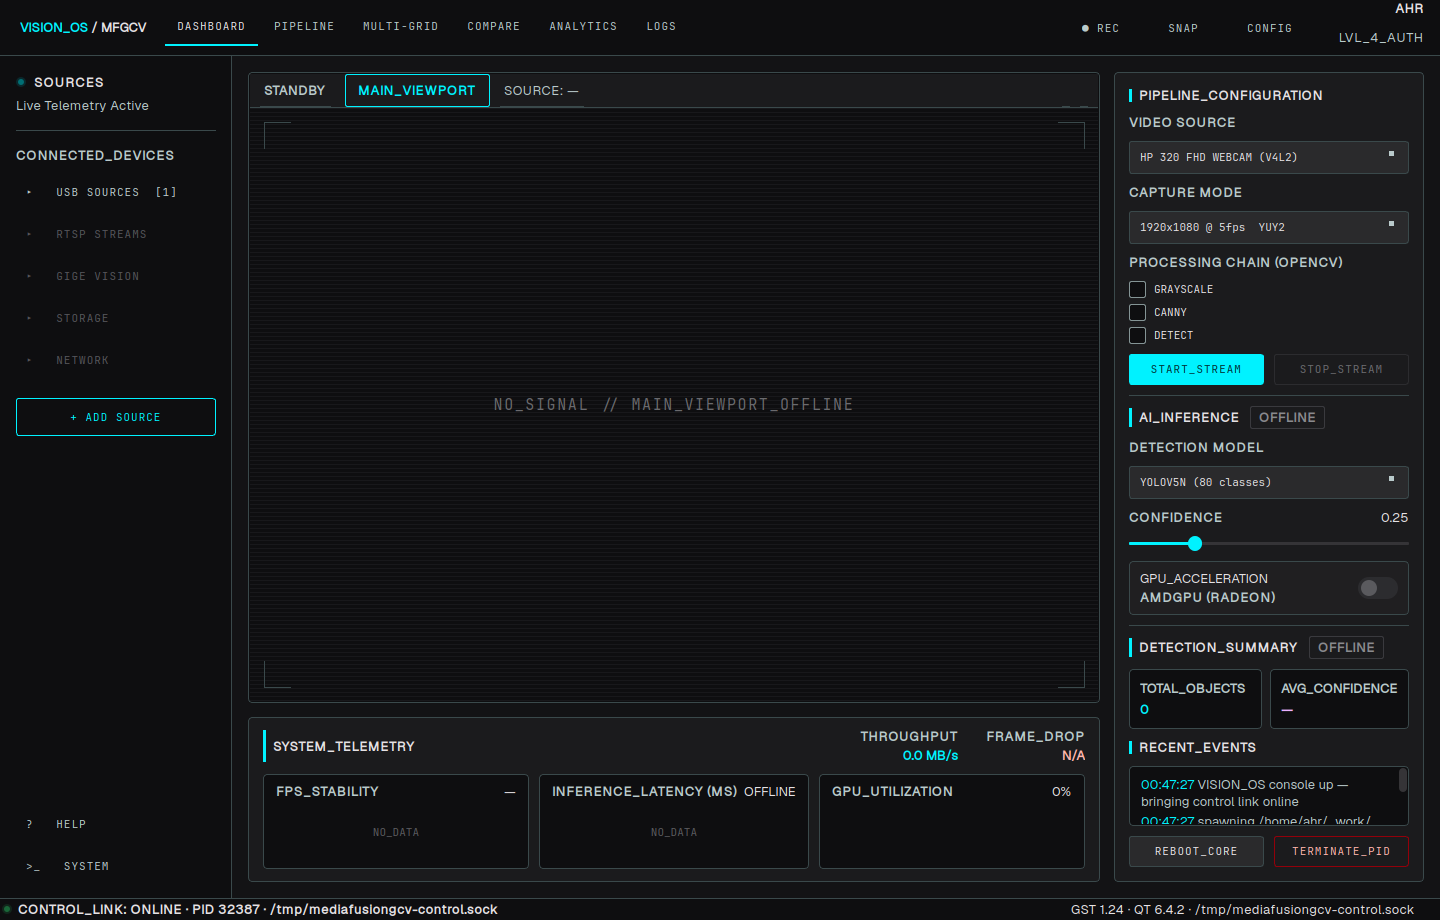
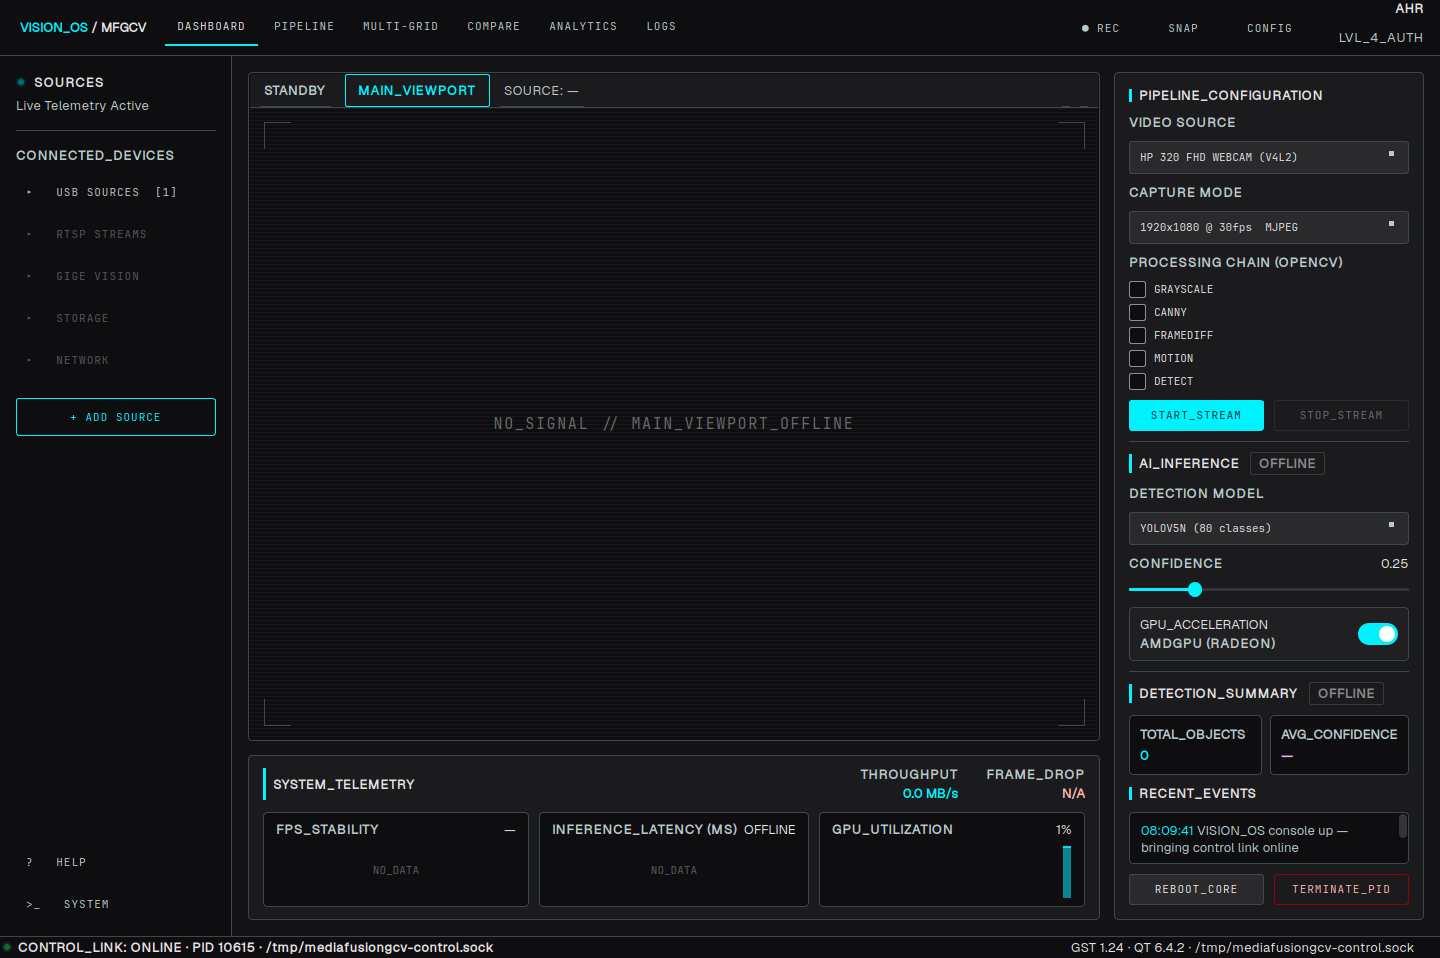
docs: record the motion stage and the measured cost of the processing stages

diff --git a/README.md b/README.md
@@ -55,9 +55,9 @@ interrupts operations; errors surface as log entries and tile badges.
 | Area | What works |
 |---|---|
 | **Streaming** | Camera → viewport, end-to-end: `create → set-device → algos → start`, frames over a per-stream zero-copy unixfd socket into an embedded GL viewport |
-| **Processing chain** | Runtime-selectable OpenCV algorithms (`grayscale`, `canny`, `framediff`, `detect`) applied in place via a pad probe — toggled live from the console |
+| **Processing chain** | Runtime-selectable OpenCV algorithms (`grayscale`, `canny`, `framediff`, `motion`, `detect`) applied in place via a pad probe — toggled live from the console |
 | **Algorithm parameters** | Each stage describes its own knobs (`algo-params`); the console generates sliders/toggles from that schema and retunes a running stream with `algo-set` |
-| **Motion detection** | `framediff` — temporal difference against a running average of the scene, with sensitivity, background decay and overlay/mask/heat rendering |
+| **Motion detection** | `framediff` — temporal difference against a running average of the scene, with sensitivity, background decay and overlay/mask/heat rendering. `motion` — MOG2 or KNN background subtraction, which learns the scene and so holds still through foliage, flicker and lighting drift that a running average reports as movement; tunable history, foreground threshold, shadow suppression and learning rate, rendered as overlay, mask, or the learned background itself. The analysis runs on a 360-row copy and the mask is scaled back up, which keeps it at ≈4.4 ms/frame at 1080p against ≈10.7 ms for the same subtractor at full resolution |
 | **AI inference** | YOLO-family ONNX object detection (`detect`) through OpenCV DNN: model picker and confidence slider in the console, boxes drawn into the frame, model swappable mid-stream. Inference runs on a worker thread and the probe overlays the newest result, so detection cost never throttles the stream |
 | **Inference telemetry** | Real per-pipeline detector stats over the control protocol (`stats <id>`) — latency chart, TOTAL_OBJECTS / AVG_CONFIDENCE tiles, and detections in the event log |
 | **Acceleration** | Backends auto-detected at daemon start (CPU / Vulkan / CUDA) and reported over the protocol (`accelerators`); the console renders a capability-driven selector — only detected engines are offered, `AUTO` by default, CPU when no GPU. A per-deploy CPU/GPU choice threads through the pipeline (`accel <id> <sel>`) and always resolves to a runnable backend. **The YOLO detector runs on the GPU via ncnn + Vulkan** behind an `IInferenceBackend` seam — validated on a Radeon RX 6700-series (RADV): **≈24 ms/frame vs ≈57 ms on CPU** for yolov5n at 640² (~2.4×). Enabled by `scripts/build-ncnn.sh` (`-DWITH_GPU`); the weights are converted FP16→FP32→pnnx by `scripts/fetch-models.sh` (plain `onnx2ncnn` yields a graph that crashes ncnn's Vulkan path). Colourspace convert stays on the CPU (≈1 ms). CUDA is a compiled placeholder for a future NVIDIA card |
@@ -154,7 +154,7 @@ interactively: run the engine without arguments for a REPL, or
 | `create <src> <snk> <name>` | `OK id=N` | Allocate a pipeline (e.g. `create camera app cam0`) |
 | `devices <id>` | device & caps listing | Enumerate V4L2 devices with all capture modes |
 | `set-device <id> <dev> <cap>` | `OK` | Bind a device + capture mode to the source |
-| `algos-list` | `OK grayscale,canny,framediff,detect` | Available processing algorithms |
+| `algos-list` | `OK grayscale,canny,framediff,motion,detect` | Available processing algorithms |
 | `algos <id> <csv>` | `OK` | Set the processing chain (empty CSV disables; an unknown name is rejected) |
 | `algo-params <algo>` | parameter schema | Describe an algorithm's knobs, enough to build a control from |
 | `algo-set <id> <algo> <k=v,…>` | `OK` | Tune an algorithm (e.g. `algo-set 0 canny low=90`); values are clamped |
@@ -298,9 +298,12 @@ docs/
    GPU colour-convert segment is disabled — `glupload!glcolorconvert!gldownload`
    delivered all-black frames on this RADV/GL stack, so convert stays on the CPU;
    (b) fill in the CUDA placeholder when an NVIDIA card lands.
-3. **RTSP source** — first non-V4L2 protocol chip.
-4. **Recording** — REC / REC ALL to disk with the DVR transport bar.
-5. **Frame-integrity accounting** — drop counters and aggregate score on Analytics.
+3. **Motion & surveillance stages** — `framediff` and `motion` have landed; next are
+   motion regions with bounding boxes and telemetry, intrusion zones, and tracking
+   with persistent IDs and dwell time.
+4. **RTSP source** — first non-V4L2 protocol chip.
+5. **Recording** — REC / REC ALL to disk with the DVR transport bar.
+6. **Frame-integrity accounting** — drop counters and aggregate score on Analytics.
 
 ## License
 

diff --git a/docs/PERFORMANCE.md b/docs/PERFORMANCE.md
@@ -71,13 +71,48 @@ camera delivers**:
 | `framediff` | 15.06 | 0 |
 | `canny` | 15.07 | 0 |
 
-Read that as a budget statement, not as "these stages are free": the camera was
-delivering 15 fps that afternoon (auto-exposure again — the same mode measured
-20.1 fps for the baseline above, in better light), so each frame had ~66 ms of
-slack and a stage costing a few ms cannot show up. The number that would move
-first is `dropped:`, and it did not. To measure a stage's actual cost, a
-synthetic source is needed — the camera cannot be driven fast enough to expose
-it.
+Re-measured 2026-08-07 in better light, where the same mode delivered 24 fps —
+`motion` is free at that rate too:
+
+| Chain | fps | dropped |
+|---|---|---|
+| (none) | 24.03 | 0 |
+| `framediff` | 24.03 | 0 |
+| `motion` | 24.02 | 0 |
+
+Read both tables as budget statements, not as "these stages are free": each frame
+had 40–66 ms of slack, so a stage costing a few ms cannot show up. The number
+that would move first is `dropped:`, and it did not.
+
+### Cost of a processing stage, measured
+
+The camera cannot be driven fast enough to expose a per-frame cost, so these come
+from timing `Algorithm::apply()` directly over 120 synthetic frames after a
+60-frame warm-up, with the OpenCV pool capped at 3 as the engine caps it (P3).
+Measured 2026-08-07, RelWithDebInfo, CPU.
+
+| Stage | 1280×720 | 1920×1080 |
+|---|---|---|
+| `framediff` | 2.42 ms | 3.43 ms |
+| `motion` (mog2, overlay) | 2.24 ms | 4.42 ms |
+| `motion` (knn, overlay) | 2.20 ms | 4.35 ms |
+| `motion` (mog2, mask) | 1.46 ms | 2.80 ms |
+| *control:* MOG2 driven at full frame | 4.59 ms | 10.70 ms |
+
+The last row is the reason the motion family downscales. Running the subtractor
+at the full frame costs 10.7 ms at 1080p — squarely in the 10–15 ms the note
+below predicted, and a quarter of a 24 fps frame budget spent on one stage.
+Against a 360-row analysis copy the same stage is 4.4 ms, so the subtractor
+itself has stopped scaling with capture resolution and what is left is the resize
+and the full-res draw.
+
+KNN and MOG2 cost the same here, so the choice between them is about scene
+behaviour rather than budget.
+
+Two things fall out of that. Choosing a bigger capture mode no longer makes the
+motion analysis more expensive, only the resize and the blend. And `overlay` mode
+costs ~1.6 ms more than `mask` at 1080p — a full-frame `clone` + `addWeighted`
+that a later pass could narrow to the mask's bounding box.
 
 ## Landed
 
@@ -115,12 +150,19 @@ S (a sitting), M (a session), L (multi-session or needs a design decision).
 
 ### Notes
 
-**Watch out when the motion stages land.** `framediff` is single-channel and
-cheap. Its successors are not: MOG2 background subtraction is ~10–15 ms at 1080p
-and dense optical flow is far worse, and the whole chain runs on the streaming
-thread holding `FrameProcessor::m_mutex` (see P15). Run the analysis on a
-downscaled copy and scale the result back up for drawing — a motion mask does not
-need 1080p — rather than paying full resolution for it.
+**The motion stages downscale for analysis.** `framediff` is single-channel and
+cheap. Its successors are not — the measurement above puts full-frame MOG2 at
+10.6 ms at 1080p, and dense optical flow will be far worse — and the whole chain
+runs on the streaming thread holding `FrameProcessor::m_mutex` (see P15). So
+`motion` runs its subtractor on a 360-row copy and scales the mask back up to
+draw, which more than halves it; a motion mask does not need 1080p. **Every later
+stage in the family should do the same**, and M3's boxes should be found at
+analysis resolution and scaled up, not found at full resolution.
+
+The constant lives in `MotionAlgorithm::kAnalysisRows`. It is deliberately not a
+parameter: an operator who lowers it to buy frame rate silently loses small or
+distant movers, and the measurement above says there is nothing left to buy —
+the subtractor no longer scales with capture resolution.
 
 **P6 — skip the convert when nothing processes.** `source->converter`
 (`videoconvert`) is created in the `PipelineManager` constructor and always
